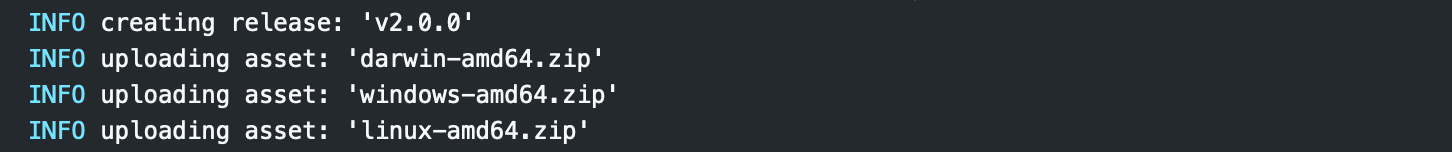
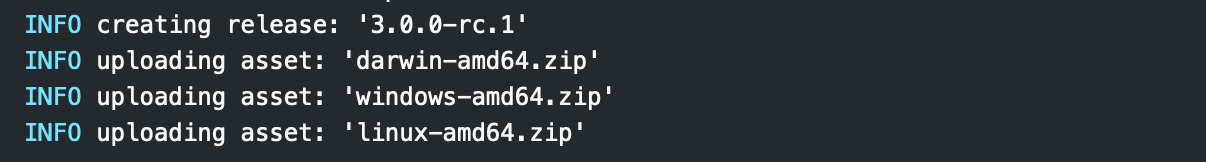
docs: update for v3.0.0

diff --git a/README.md b/README.md
@@ -19,7 +19,7 @@ A **GitHub Action** for creating a **GitHub Release** with **Assets** and **Chan
 ## Manual:
 1. Add your changes to `CHANGELOG.md` in the following format (according to [keepachangelog.com](https://keepachangelog.com/en/1.0.0/ "Keep a ChangeLog")):
 ```
-## [3.0.0] - 2019-12-21 
+## [3.0.0-rc.1] - 2019-12-21 
 ### Added
 - Feature A
 - Feature B
@@ -34,7 +34,7 @@ A **GitHub Action** for creating a **GitHub Release** with **Assets** and **Chan
 - Previous Artifactory
 ```
 2. Tag a commit with Version (according to [semver.org](https://semver.org/ "Semantic Versioning")).
-    - Prefix supported (for example `v3.0.0`), see configuration section for more info.
+    - Prefix support is available (for example `v3.0.0`), see configuration section in order to enable it.
 3. Push and watch **Git-Release** publishing a Release on GitHub ;-)  
 ![PIC](docs/images/log.png)
 
@@ -51,27 +51,31 @@ on:
     - Customize configuration with **env.vars**:
         - Provide a list of assets as `args` (divided by one of: `new line`, `space`, `comma`, `pipe`)
         - `DRAFT_RELEASE: [true, false]` - Save release as draft instead of publishing it (default `false`).
-        - `PRE_RELEASE: [true, false]` - GitHub will point out that this release is identified as non-production ready (default `false`). 
-        - `CHANGELOG_FILE: string` - Changelog filename (default `CHANGELOG.md`).
+        - `PRE_RELEASE: [true, false]` - GitHub will point out that this release is identified as non-production ready (default: `false`). 
+        - `CHANGELOG_FILE: string` - Changelog filename (default: `CHANGELOG.md`).
         - `ALLOW_EMPTY_CHANGELOG: [true, false]` - Allow publishing a release without changelog (default `false`).
-        - `ALLOW_TAG_PREFIX: [true, false]` - Allow prefix on version Tag, for example `v1.2.3` or `release-1.1.14` (default `false`).
+        - `ALLOW_TAG_PREFIX: [true, false]` - Allow prefix on version Tag, for example `v3.0.0` or `release-3.0.0` (default: `false`).
 ```
     - name: Release
       uses: docker://antonyurchenko/git-release:latest
       env:
         GITHUB_TOKEN: ${{ secrets.GITHUB_TOKEN }}
+        DRAFT_RELEASE: "false"
+        PRE_RELEASE: "false"
+        CHANGELOG_FILE: "CHANGELOG.md"
         ALLOW_EMPTY_CHANGELOG: "true"
         ALLOW_TAG_PREFIX: "true"
       with:
         args: |
-          build/release/darwin-amd64.zip
-          build/release/linux-amd64.zip
-          build/release/windows-amd64.zip
+            build/darwin-amd64.zip
+            build/linux-amd64.zip
+            build/windows-amd64.zip
 ```
 
 ## Remarks:
-- This action is automatically built at Docker Hub, and tagged with `latest / v3 / v3.0 / v3.0.0`. You may lock to a certain version instead of using **latest**.  
-(*Recommended to lock against a major version, for example* `v2`)
+- **Git Tag** should be identical to **Changelog Version** in order for changes to be parsed properly.  
+- This action is automatically built at **Docker Hub**, and tagged with `latest / v3 / v3.0 / v3.0.0`. You may lock to a certain version instead of using **latest**.  
+(*Recommended to lock against a major version, for example* `v3`)
 - Instead of using pre-built image, you may build it during the execution of your flow by changing `docker://antonyurchenko/git-release:latest` to `anton-yurchenko/git-release@master`
 
 ## License
